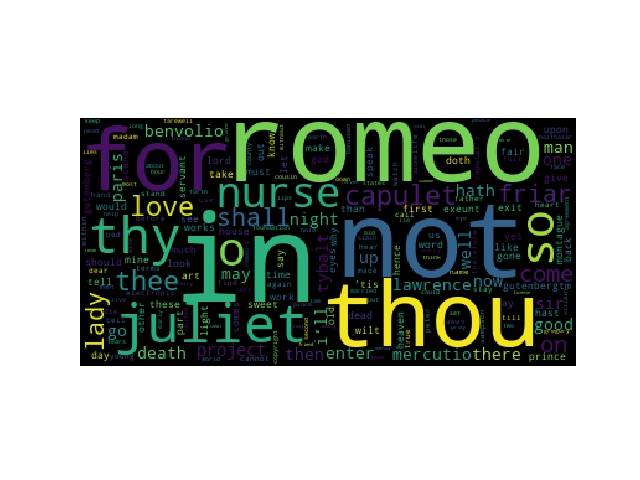
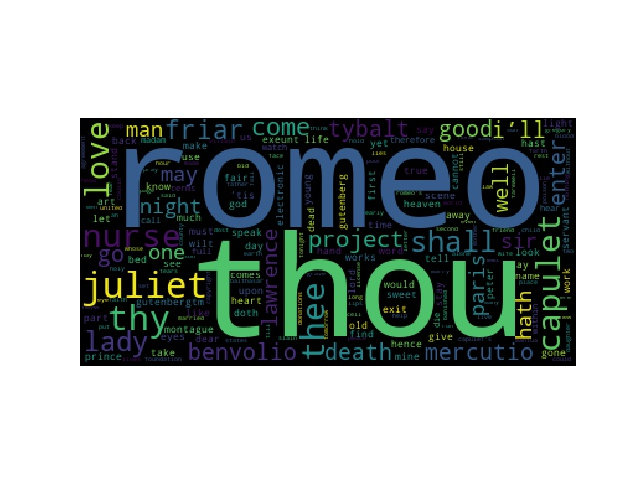
Use NLTK stop words for irrelevant words list

Changed region(s): [[0.125, 0.25, 0.9062, 0.75]]

diff --git a/generate_wordcloud.py b/generate_wordcloud.py
@@ -3,33 +3,24 @@ import argparse
 import wordcloud
 import string
 from matplotlib import pyplot as plt
+from nltk.corpus import stopwords
 
 
 def calculate_frequencies(file_contents):
     """
     Process the text, remove punctuation, ignore case and words that
     do not contain all alphabets, count the frequencies, and ignore
-    irrelevant words.
+    uninteresting or irrelevant words.
     """
 
-    # Here is a list of punctuations and irrelevent words
+    # Here is a list of punctuations and uninteresting or irrelevent words
     punctuations = string.punctuation
-    irrelevent_words = [
-        "the", "a", "to", "if", "is", "it", "of", "and", "or", "an", "as",
-        "i", "me", "my", "we", "our", "ours", "you", "your", "yours", "he",
-        "she", "him", "his", "her", "hers", "its", "they", "them", "their",
-        "what", "which", "who", "whom", "this", "that", "am", "are", "was",
-        "were", "be", "been", "being", "have", "has", "had", "do", "does",
-        "did", "but", "at", "by", "with", "from", "here", "when", "where",
-        "how", "all", "any", "both", "each", "few", "more", "some", "such",
-        "no", "nor", "too", "very", "can", "will", "just"]
-
     for char in punctuations:
         file_contents = file_contents.replace(char, "")
 
     file_contents = file_contents.lower().split()
-
-    words = [word for word in file_contents if word not in irrelevent_words]
+    stop_words = list(stopwords.words('english'))
+    words = [word for word in file_contents if word not in stop_words]
 
     words_dict = {}
     for word in words:
